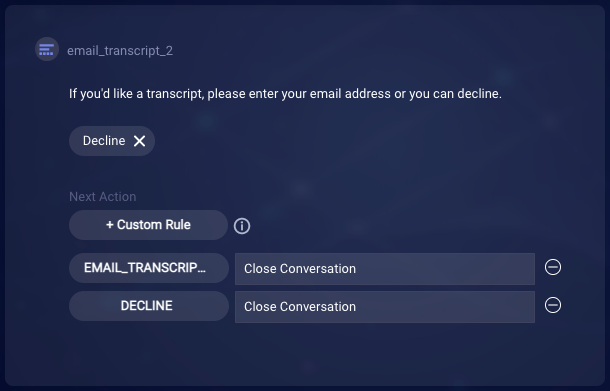
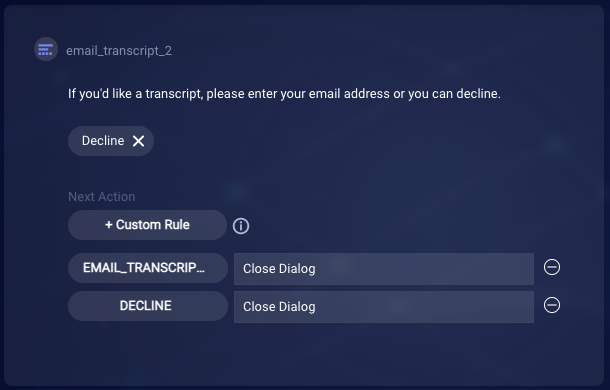
Change Email Transcript feature - uses Close Dialog

diff --git a/pages/Documents/ConversationalAI/ConversationBuilder/Bots/post-conversation-survey-bots.md b/pages/Documents/ConversationalAI/ConversationBuilder/Bots/post-conversation-survey-bots.md
@@ -240,7 +240,7 @@ Second, configure the Email Transcript interaction:
 
 * Change the message text and the label for the Decline button as desired.
 * Configure the interaction's basic and advanced settings. Most notably, specify the **Sender Name** and **Sender Email**. By default, these are set using the user details of the bot developer who added the interaction to the bot.
-* Set the Next Action to "Close Conversation" if appropriate. (This is done by default.)
+* Keep the Next Action as "Close Dialog" (which is the default) to close the conversation if appropriate.
 
 <img class="fancyimage" style="width:600px" src="img/ConvoBuilder/surveyBot_email2.png">
 
@@ -265,18 +265,18 @@ First, in the bot's [Bot Settings](conversation-builder-bots-bot-basics.html#con
 
 Second, configure the Thank You Message interaction:
 
-* Change the message text as desired.
+* Enter the Thank You message.
 * Configure the interaction's basic and advanced settings.
-* Set the Next Action to "Close Conversation" if appropriate.
+* Set the Next Action to "Close Dialog" to close the conversation if appropriate.
 
 The Thank You Message interaction can precede or follow an Email Transcript interaction (discussed above), if used. However, the two must be last in the dialog flow. You can [move](conversation-builder-interactions-interaction-basics.html#move-an-interaction) them to reorder them, but this constraint is enforced.
 
 ### Closing the survey conversation
 
-Close a survey conversation by setting [Close Conversation](conversation-builder-dialogs-dialog-basics.html#close-the-conversation) as the Next Action in the final interaction in the survey dialog.
+Close a survey conversation by setting [Close Dialog](conversation-builder-dialogs-dialog-basics.html#close-the-dialog) as the Next Action in the final interaction in the survey dialog.
 
 {: .important}
-Make sure that a custom bot *that triggers a survey bot* uses Close Dialog. [Close Dialog](conversation-builder-dialogs-dialog-basics.html#close-the-dialog) allows a post-conversation survey to be triggered, but [Close Conversation](conversation-builder-dialogs-dialog-basics.html#close-the-conversation) does not.
+Make sure that a custom bot *that triggers a survey bot* also uses Close Dialog. [Close Dialog](conversation-builder-dialogs-dialog-basics.html#close-the-dialog) allows a post-conversation survey to be triggered, but [Close Conversation](conversation-builder-dialogs-dialog-basics.html#close-the-conversation) does not.
 
 ### Deploying the survey bot
 
